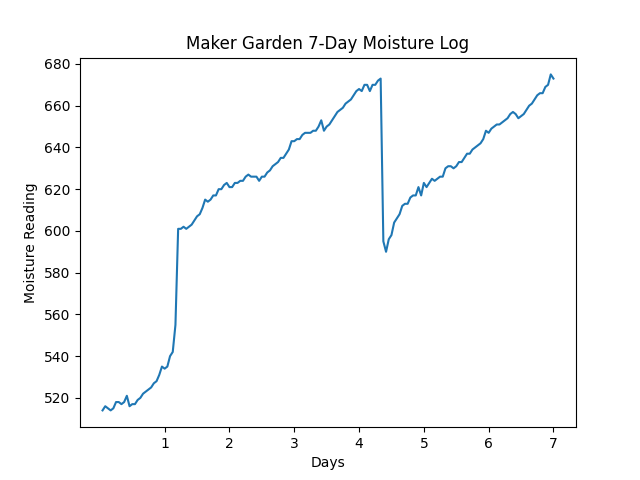
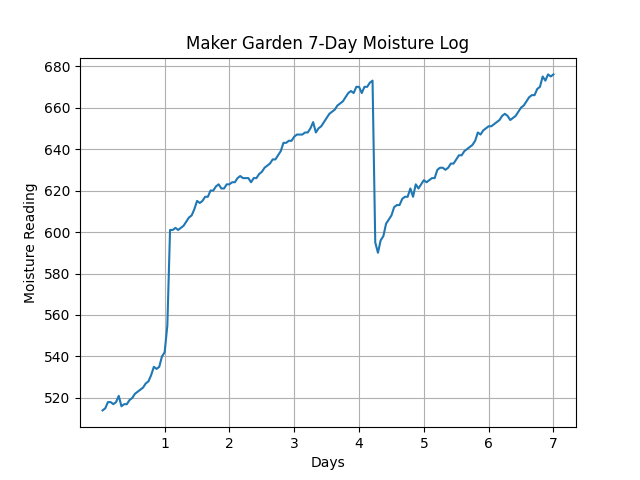
adding grid to sensor plots

diff --git a/daily_report.py b/daily_report.py
@@ -24,6 +24,7 @@ ax1.set_xticklabels(['1', '2', '3' ,'4', '5', '6', '7'])
 plt.title("Maker Garden 7-Day Moisture Log")
 plt.xlabel("Days")
 plt.ylabel("Moisture Reading")
+plt.grid()
 plt.plot(x[-168:], y[-168:])
 plt.savefig("/home/pi/MakerGarden/plot1.png")
 
@@ -33,6 +34,7 @@ plt.tick_params(axis='x', which='both', bottom=False, top=False, labelbottom=Fal
 plt.title("Maker Garden Moisture Log (all data)")
 plt.xlabel("Date Range: " + x[0] + " - " + x[-1])
 plt.ylabel("Moisture Reading")
+plt.grid(axis='y')
 plt.plot(x, y)
 plt.savefig("/home/pi/MakerGarden/plot2.png")
 
